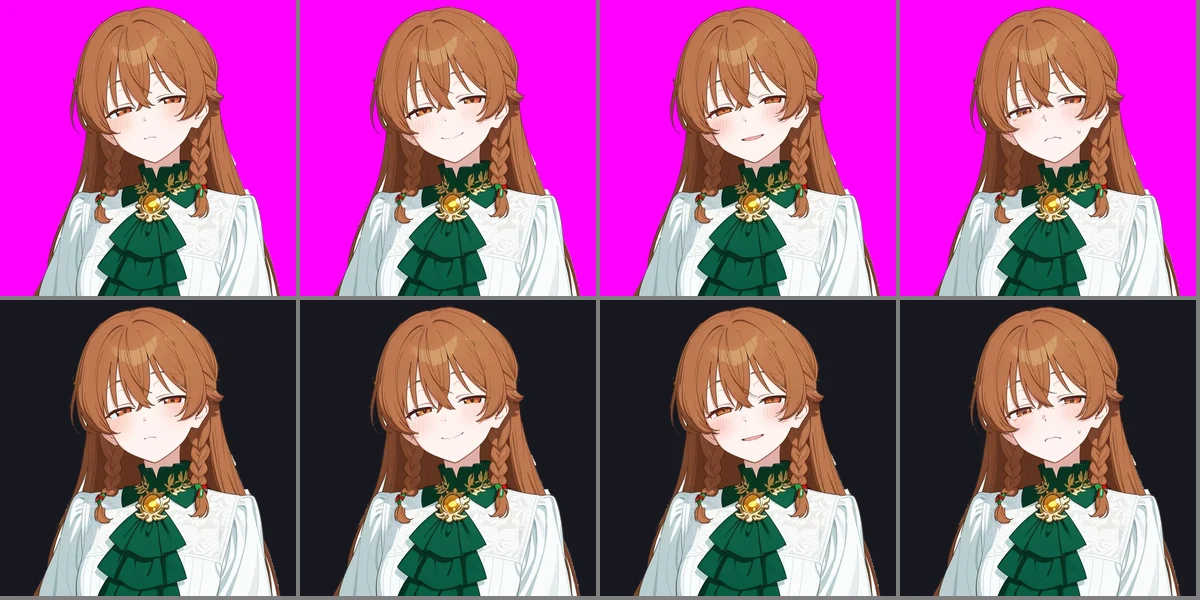
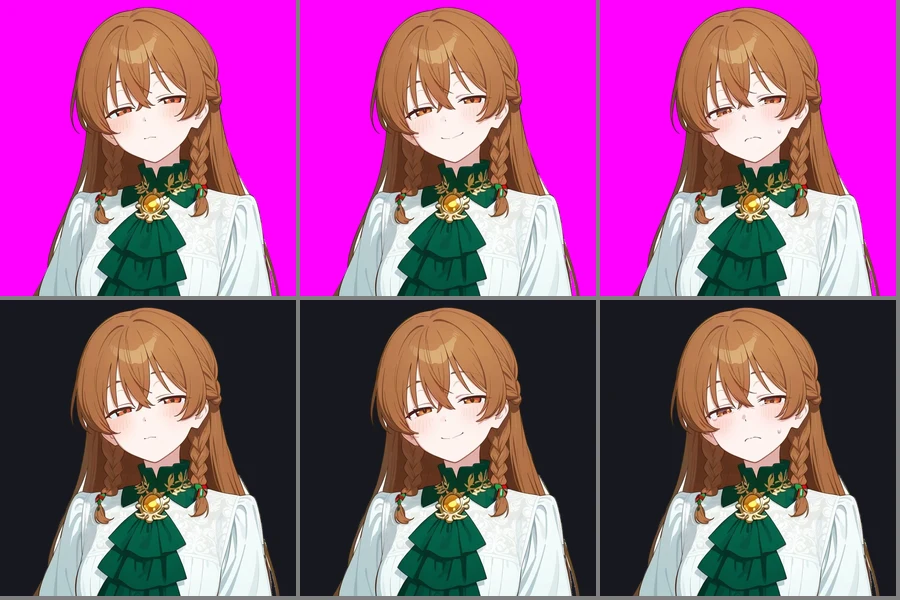
オーナーの 14・15 回目の反映：竹之内を和服に（4 枚）・イロナの髪の抜けを直し、コミカル 3 種を外す・ひなたを 1 から再デザインした候補 6 枚（はっきり違う髪・服・小物）
Claude-Session: https://claude.ai/code/session_011Kp4AbAXdzXbnvYnjXXoLh

diff --git a/docs/art/candidates/hinata_r2/gen.py b/docs/art/candidates/hinata_r2/gen.py
@@ -1,0 +1,23 @@
+# ひなたを 1 から再デザイン：互いにはっきり違う 6 案（style.json だけ・胸から上・1024 四方・緑の地で抜く）
+import base64, io, json, sys, urllib.request
+from PIL import Image
+S = json.load(open("H:/game/trpg-game2/docs/art/style.json", encoding="utf-8"))
+COMMON = "1girl, (young woman:1.3), (early 20s:1.2), youthful face, rustic, unrefined country girl, no makeup, kind big-sister smile, (large breasts:1.1), modest clothes, fully clothed, "
+POST = ", solo, upper body, portrait, looking at viewer, facing viewer, simple background, (green background:1.3), (chroma key:1.1), character focus"
+V = [
+ ("A", "(short messy brown bob:1.4), freckles, round face, (yellow bandana on head:1.3), (green overalls:1.4), white t-shirt, work gloves tucked in pocket, holding a pitchfork"),
+ ("B", "(long chestnut low twin braids:1.4), big round eyes, (straw hat:1.4), (green plaid flannel shirt:1.4), (yellow neckerchief:1.2), denim vest, holding a basket of corn"),
+ ("C", "(black hair in a high ponytail:1.4), sharp friendly eyes, (fair skin:1.3), (green jersey track jacket:1.3), (yellow towel around neck:1.3), rubber boots, holding a milk can"),
+ ("D", "(light brown wavy medium hair:1.3), (side ponytail with yellow scrunchie:1.4), droopy gentle eyes, (oversized green knit sweater:1.4), (cream apron:1.2), holding a newborn lamb"),
+ ("E", "(dark brown hair in a low bun:1.4), (headscarf:1.3), thick eyebrows, (green work jacket with many pockets:1.4), yellow inner shirt, holding a bucket of feed, rolled sleeves"),
+ ("F", "(short reddish-brown hair with hairclips:1.4), (yellow hairclips:1.3), cheerful wide grin, (green and yellow checkered blouse:1.4), (brown leather work apron:1.3), holding a horse brush"),
+]
+neg = S["negative"].replace(" breasts,", "") + ", (child:1.6), (loli:1.6), (makeup:1.4), (cleavage:1.6), (revealing clothes:1.6), (mature female:1.4), (old:1.4), (blush:1.3), (animal ears:1.7), (green hair:1.6), (tan:1.6), (dark skin:1.6), (tanned skin:1.6), (hair over one eye:1.4), white background, (multiple girls:1.6), text, scenery"
+for k, body in [v for v in V if v[0] in sys.argv[2]] if len(sys.argv) > 2 else V:
+    for sd in [int(s) for s in sys.argv[1].split(",")]:
+        b = {"prompt": S["prefix"] + ", " + COMMON + body + POST, "negative_prompt": neg, "seed": sd, "steps": 24, "cfg_scale": 5.5, "sampler_name": "Euler a", "scheduler": "Automatic",
+             "width": 1024, "height": 1024, "override_settings": S["override_settings"], "override_settings_restore_afterwards": True}
+        r = json.loads(urllib.request.urlopen(urllib.request.Request("http://127.0.0.1:7860/sdapi/v1/txt2img", json.dumps(b).encode(), {"Content-Type": "application/json"}), timeout=1200).read())
+        Image.open(io.BytesIO(base64.b64decode(r["images"][0]))).convert("RGB").save(f"hr2/h{k}_{sd}.png")
+        json.dump(b, open(f"hr2/h{k}_{sd}.json", "w", encoding="utf-8"), ensure_ascii=False, indent=1)
+        print(k, sd, flush=True)
